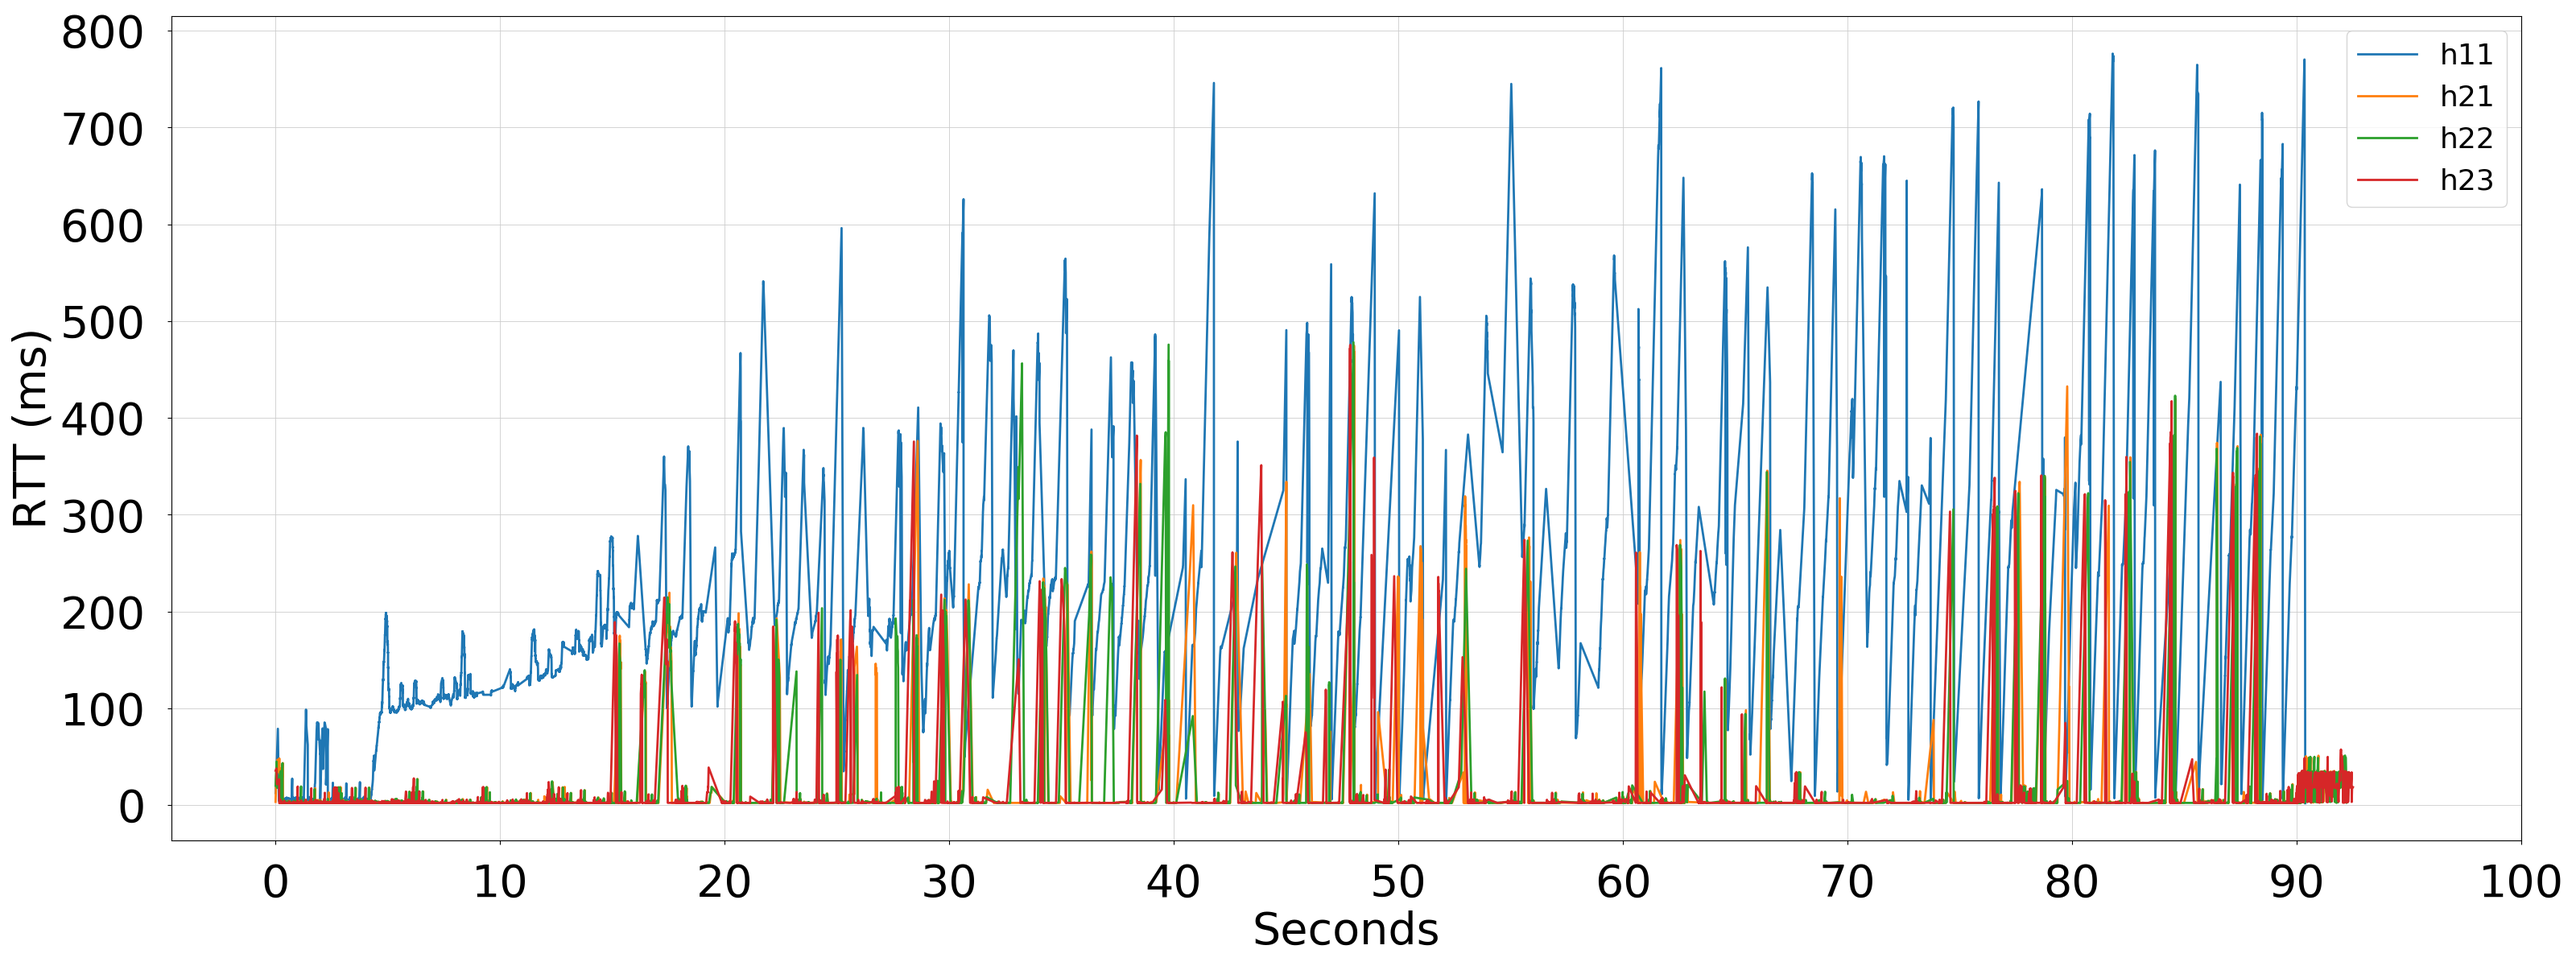
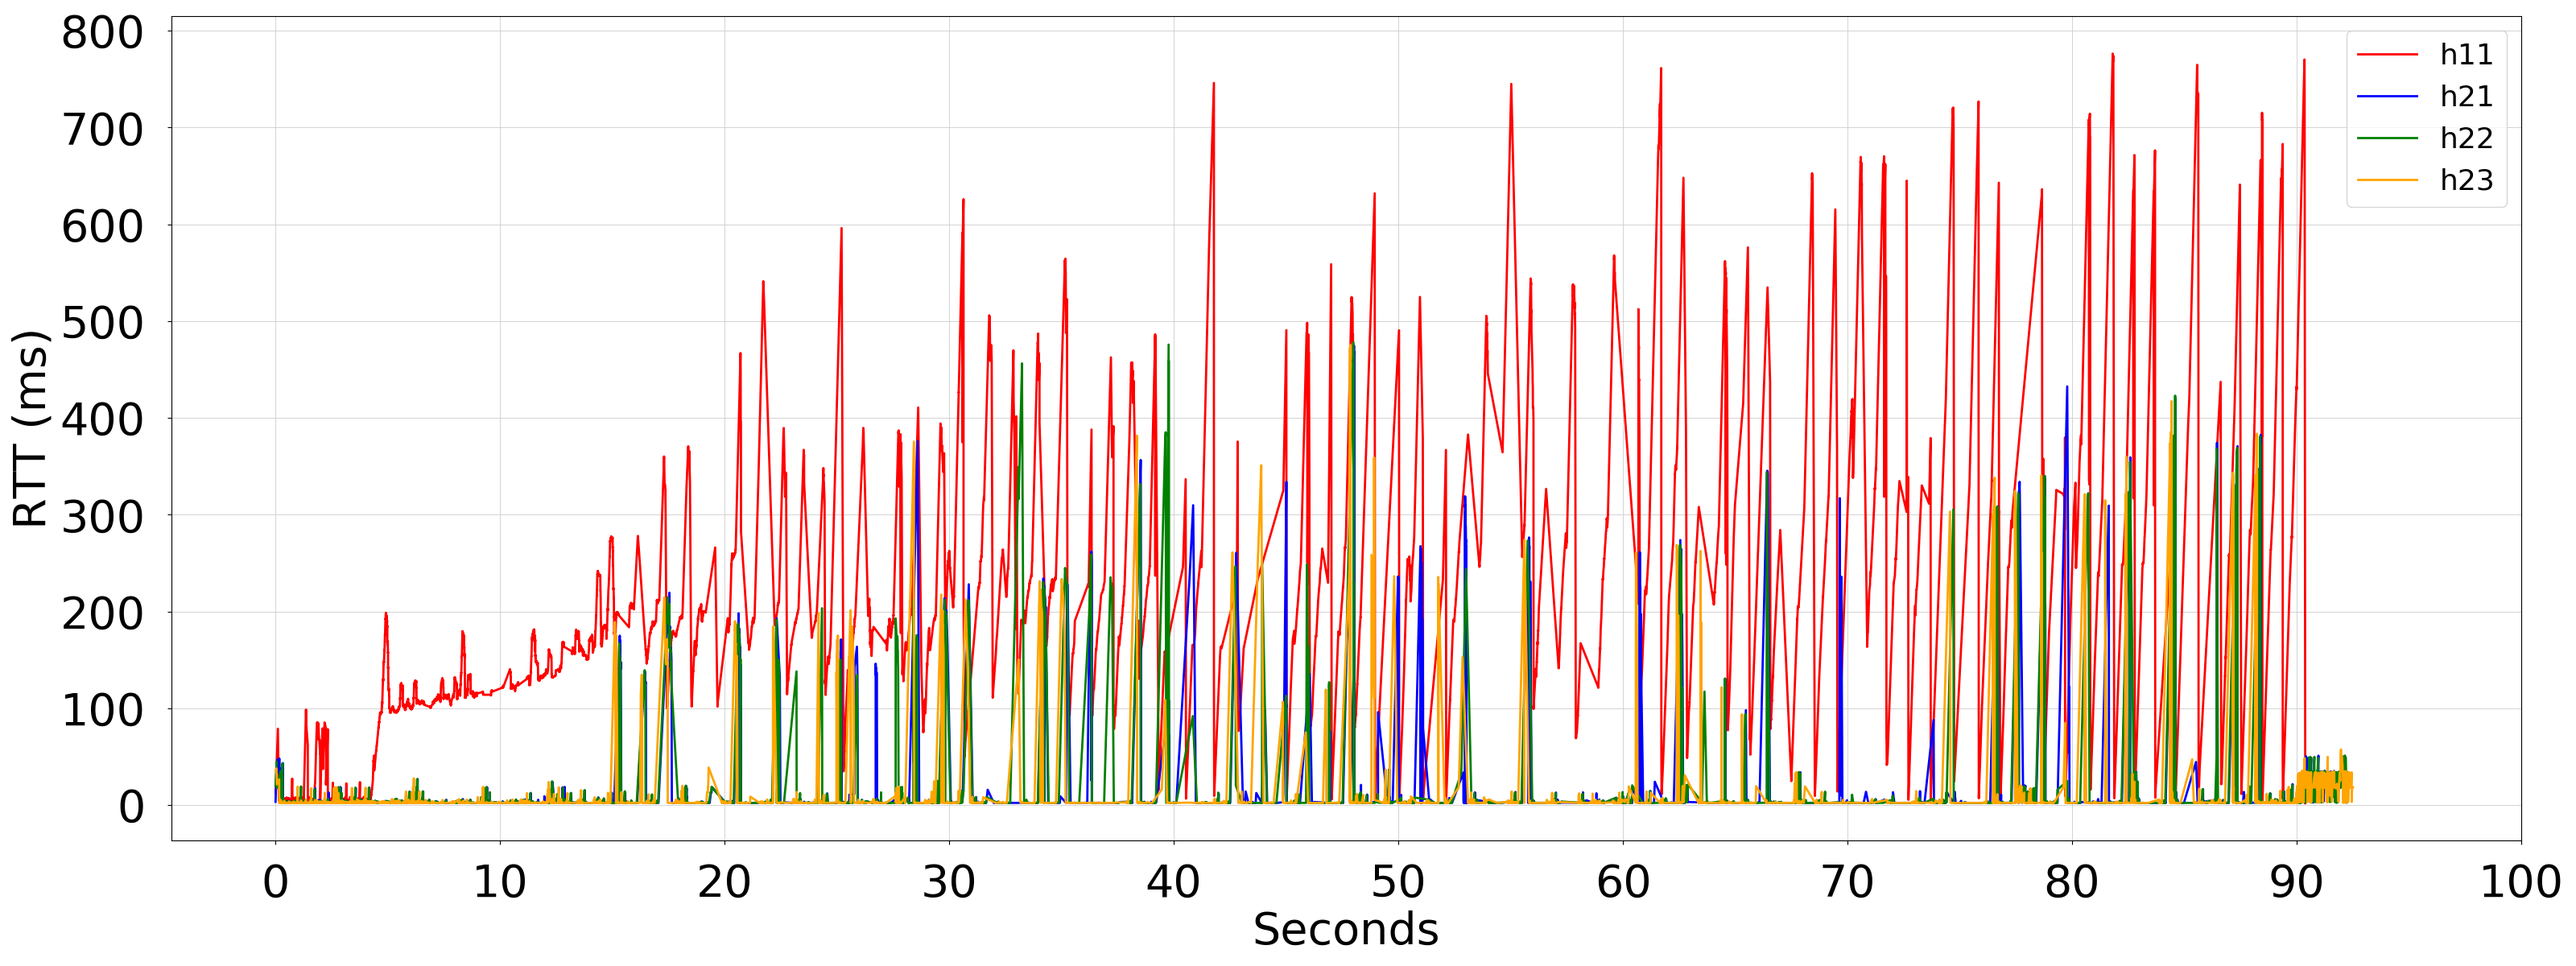
graph colors

Changed region(s): [[0.0938, 0.1233, 0.9375, 0.8325]]

diff --git a/plot_ping.py b/plot_ping.py
@@ -53,6 +53,17 @@ if args.legend is None:
             name = "sw5"
         args.legend.append(name)
 
+def get_style(i):
+    if i == 0:
+        return {'color': 'red'}
+    if i == 1:
+        return {'color': 'blue'}
+    if i == 2:
+        return {'color': 'green'}
+    else:
+        return {'color': 'orange'}
+
+
 m.rc('figure', figsize=(32, 12))
 fig = figure()
 ax = fig.add_subplot(111)
@@ -67,7 +78,7 @@ for i, f in enumerate(args.files):
     
     
     
-    ax.plot(xaxis, rtts, lw=2, label=args.legend[i])
+    ax.plot(xaxis, rtts, lw=2, label=args.legend[i], **get_style(i))
     plt.legend()
     ax.xaxis.set_major_locator(LinearLocator(5))
     ax.set_title(args.title)

diff --git a/plot_rates_iperf.py b/plot_rates_iperf.py
@@ -75,13 +75,13 @@ def get_style(i):
     if i == 2:
         return {'color': 'green'}
     else:
-        return {'color': 'black'}
+        return {'color': 'orange'}
 
 m.rc('figure', figsize=(32, 12))
 fig = figure()
 ax = fig.add_subplot(111)
 time_btwn_flows = 2.0
-for i, f in enumerate(sorted(args.files)):
+for i, f in enumerate(args.files):
     data = read_list(f)
     xaxis = map(float, col(0, data))
     throughput = map(float, col(1, data))

diff --git a/plot_throughput.py b/plot_throughput.py
@@ -77,7 +77,7 @@ def get_style(i):
     if i == 2:
         return {'color': 'green'}
     else:
-        return {'color': 'black'}
+        return {'color': 'yellow'}
 
 m.rc('figure', figsize=(32, 12))
 fig = figure()
